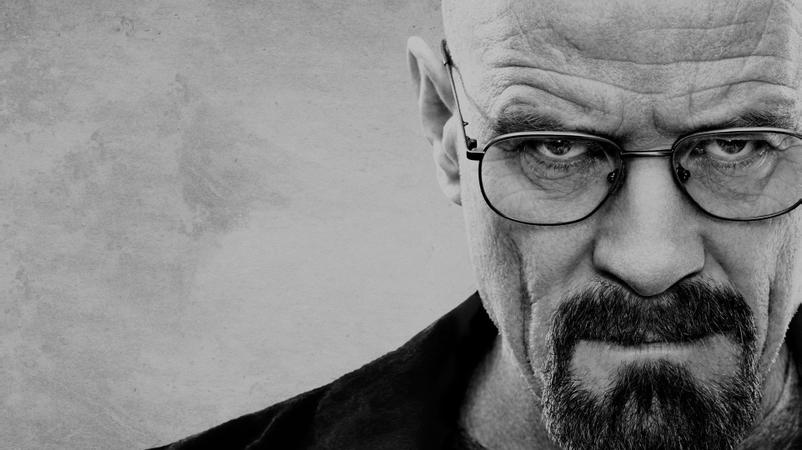
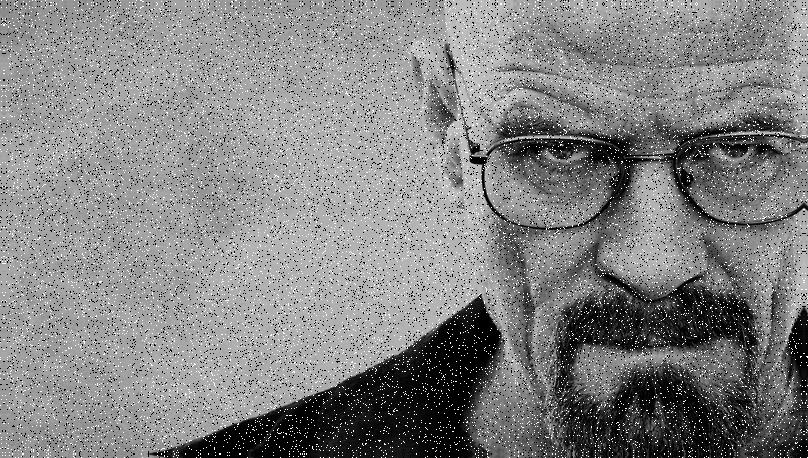
Changes the folder

Changed region(s): [[0.0, 0.0, 1.0, 1.0]]

diff --git a/Exercise/assignment2/Ex1.m b/Exercise/assignment2/Ex1.m
@@ -1,0 +1,78 @@
+addpath('Helper Functions');
+I = rgb2gray(imread('bb.jpg')) ; % read image
+[rows,columns] = size(I) ;
+
+%%%%%%%%%%%%%%%%%%%%%%%%%%%%%%%%%%%%%%
+% Salt-Pepper Noise , Median Filter%%%
+%%%%%%%%%%%%%%%%%%%%%%%%%%%%%%%%%%%%%%
+spNoisyImage = AddSaltPepperNoise(I , 10);
+roi_size = 5;
+medianFiltered = median_filter(spNoisyImage,roi_size,'mirror');
+
+figure(1)
+subplot(1,2,1)
+imshow(uint8(spNoisyImage)) % Salt and Pepper Noisy
+title('Salt and Pepper Noisy')
+
+hold on
+subplot(1,2,2)
+imshow(uint8(medianFiltered)) % Median Filtered
+title(strcat('Median Filter = ',num2str(roi_size),'X',num2str(roi_size)))
+hold off
+%%%%%%%%%%%%%%%%%%%%%%%%%%%%%%%%%%%
+% Gaussian Noise , Gaussian Filter%
+%%%%%%%%%%%%%%%%%%%%%%%%%%%%%%%%%%%
+sigma = 3;
+gaussNoisyImage = AddGaussianNoise(I,32); %AddGaussianNoise( input_image , deviation)
+filter = Gaussian2D(sigma);
+gaussFiltered = convolution(gaussNoisyImage,filter,'mirror');
+
+figure(2)
+subplot(1,2,1)
+imshow(uint8(gaussNoisyImage)) % Gaussian Noisy
+title('Gaussian Noisy')
+
+hold on
+subplot(1,2,2)
+imshow(uint8(gaussFiltered)) % Gaussian Filtered
+title(strcat('Gaussian Filter = ',num2str(sigma),'X',num2str(sigma)))
+hold off
+
+%%%%%%%%%%%%%%%%%%%%%%%%%%%%%%%%%%%
+% Gaussian Noise , Median Filter%%%
+%%%%%%%%%%%%%%%%%%%%%%%%%%%%%%%%%%%
+
+gaussNoisyImage = AddGaussianNoise(I,32); %AddGaussianNoise( input_image , deviation)
+roi_size = 5;
+medianFiltered = median_filter(gaussNoisyImage,roi_size,'mirror');
+
+figure(3)
+subplot(1,2,1)
+imshow(uint8(gaussNoisyImage)) % Gaussian Noisy
+title('Gaussian Noisy')
+
+hold on
+subplot(1,2,2)
+imshow(uint8(medianFiltered)) % Median Filtered
+title(strcat('Median Filter = ',num2str(roi_size),'X',num2str(roi_size)))
+hold off
+
+%%%%%%%%%%%%%%%%%%%%%%%%%%%%%%%%%%%%%%%%
+% Salt Pepper Noise , Gaussian Filter%%%
+%%%%%%%%%%%%%%%%%%%%%%%%%%%%%%%%%%%%%%%%
+sigma = 3;
+spNoisyImage = AddSaltPepperNoise(I , 10);
+filter = Gaussian2D(sigma);
+gaussFiltered = convolution(spNoisyImage,filter,'mirror');
+
+figure(4)
+subplot(1,2,1)
+imshow(uint8(spNoisyImage)) % SP Noisy
+title('Salt Pepper Noisy')
+
+hold on
+subplot(1,2,2)
+imshow(uint8(gaussFiltered)) % Gaussian Filtered
+title(strcat('Gaussian Filter = ',num2str(sigma),'X',num2str(sigma)))
+hold off
+
